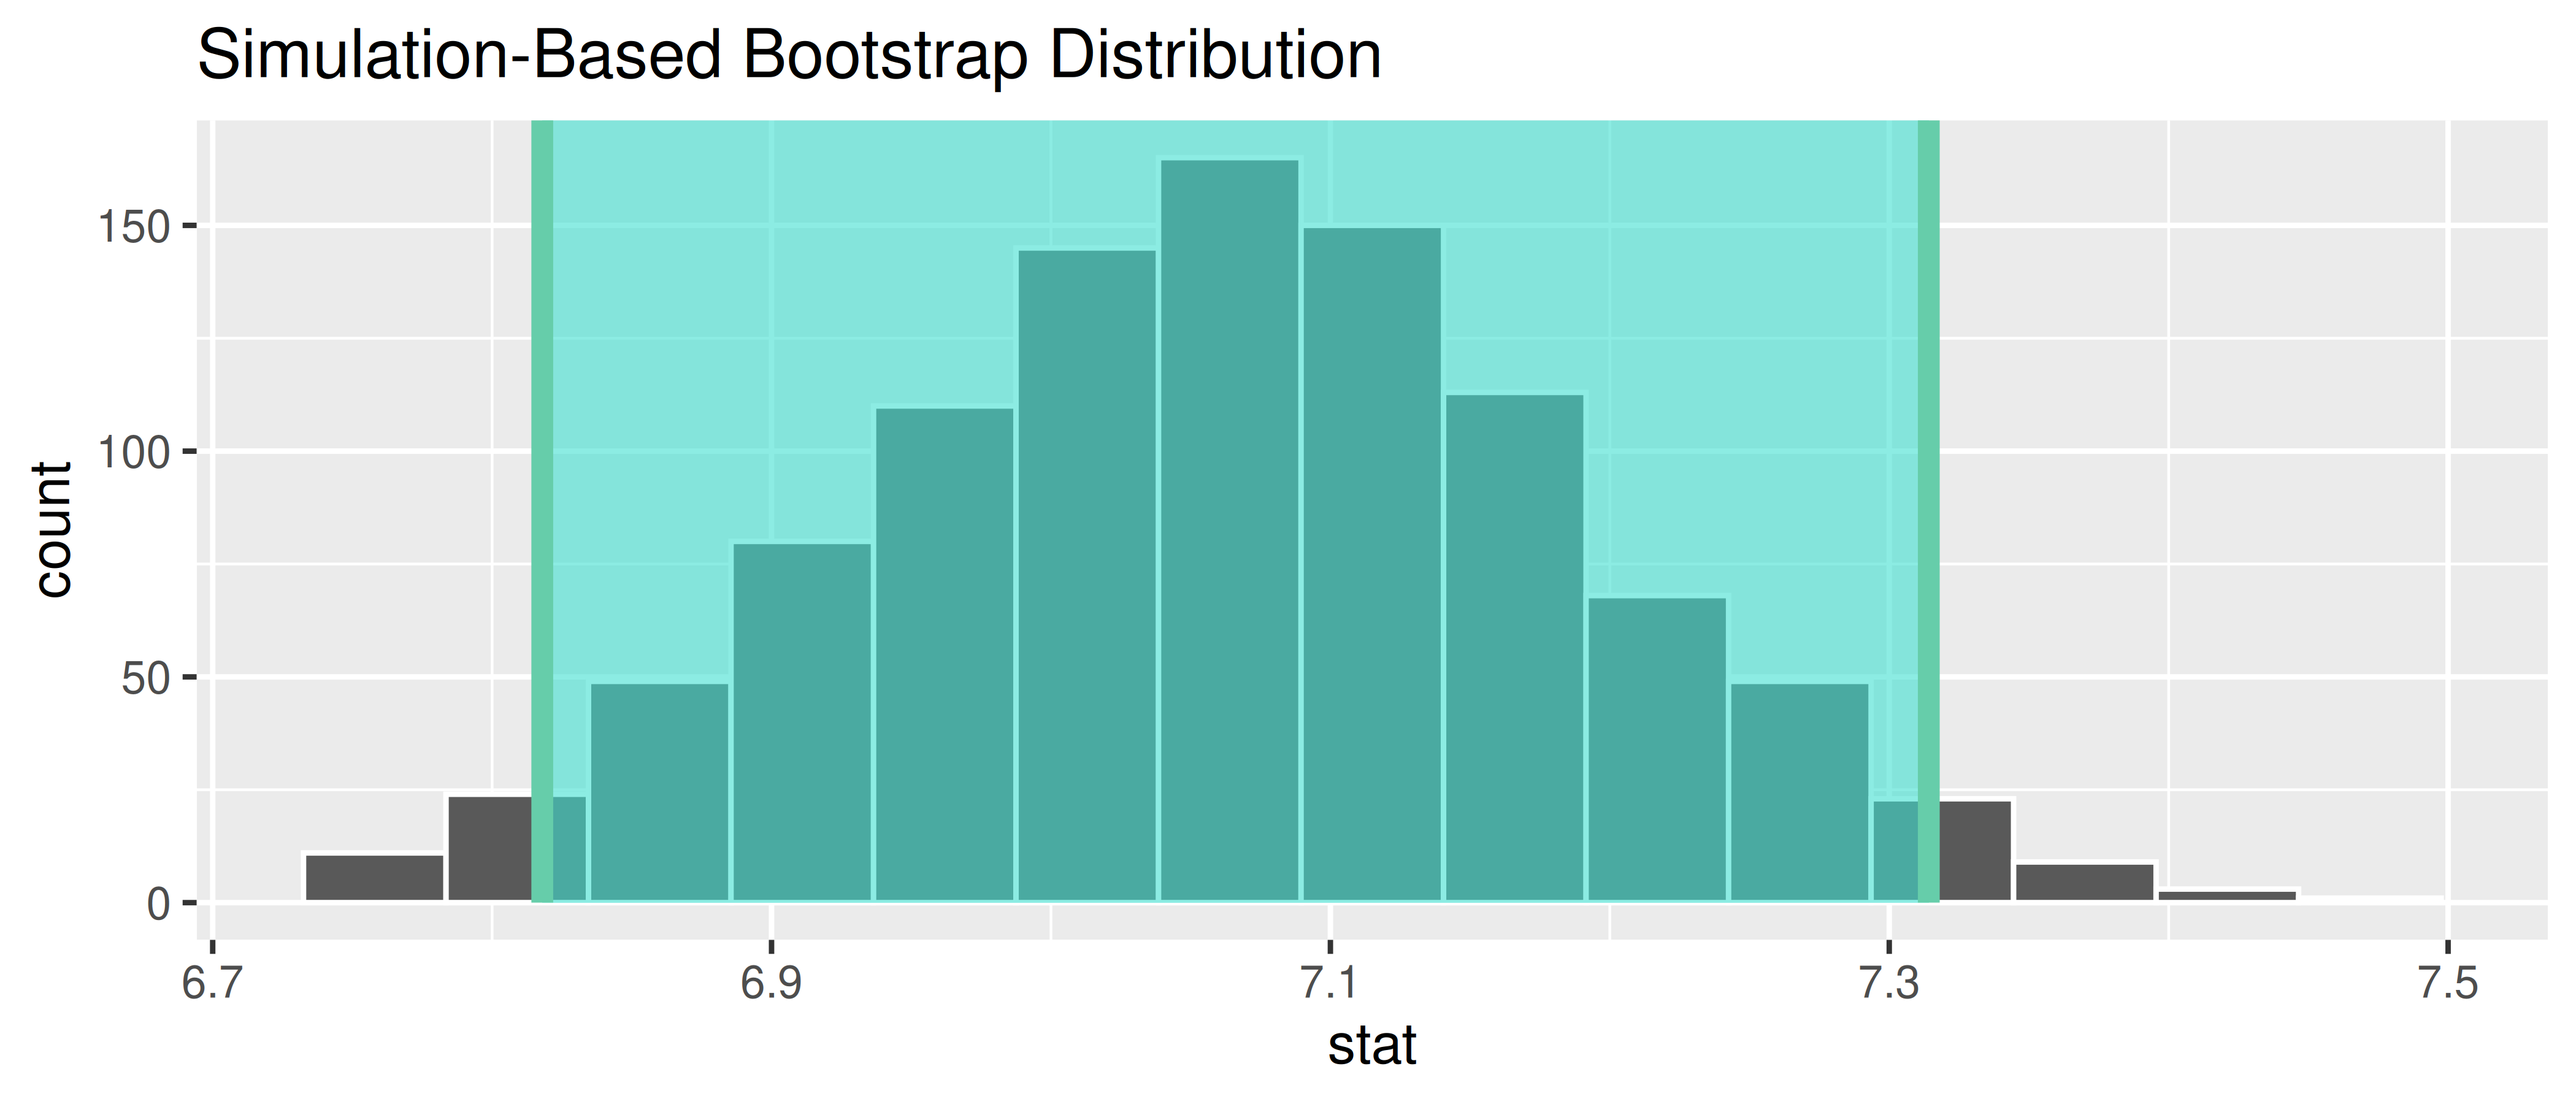
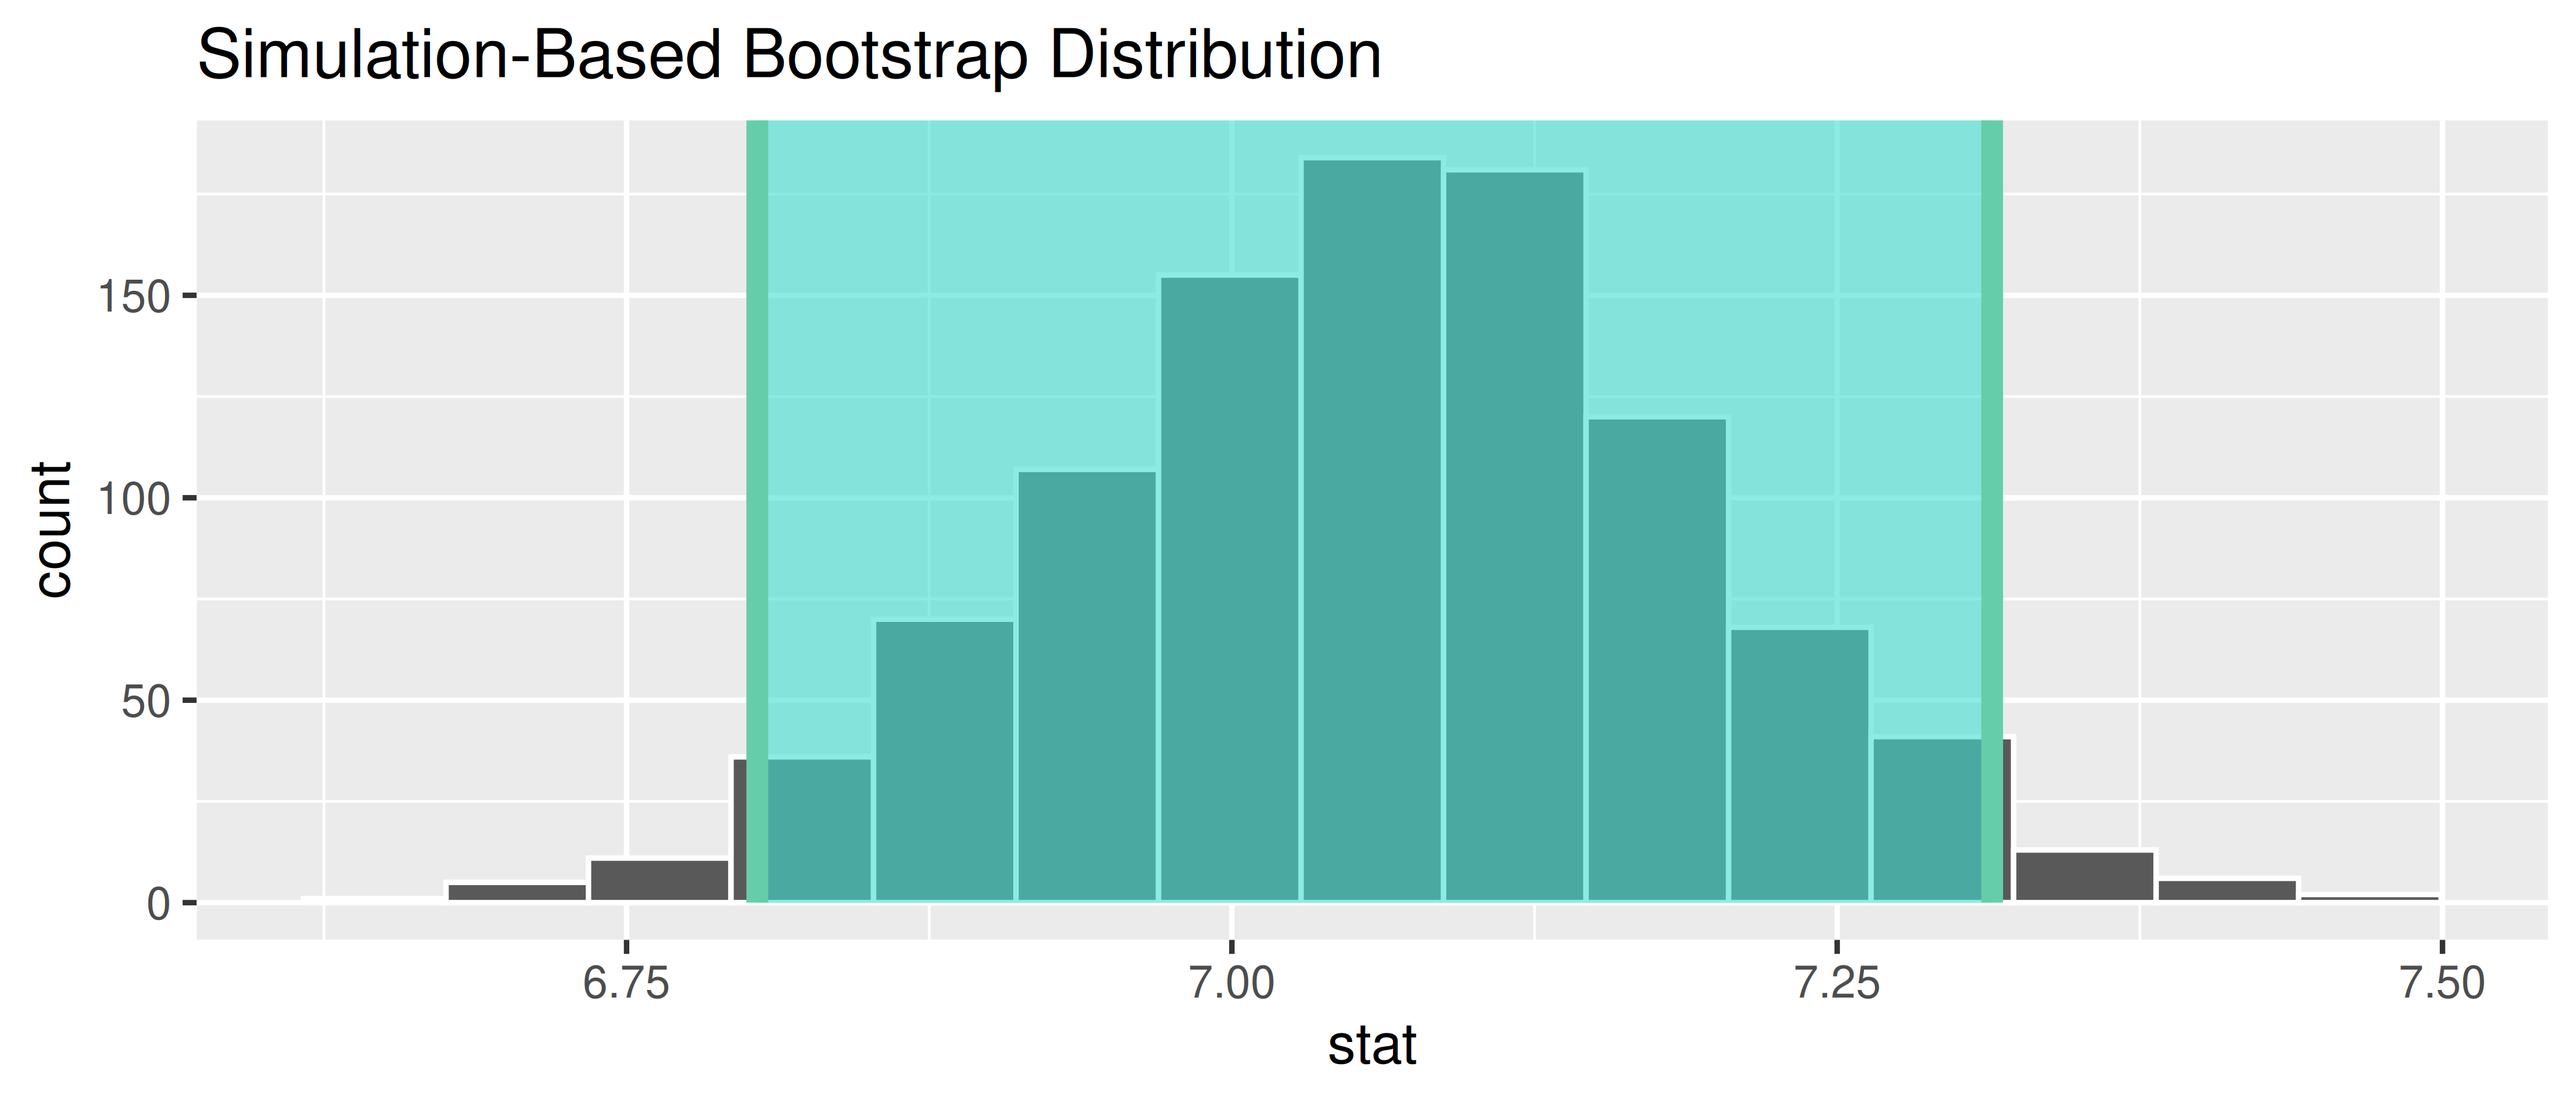
Tables appendix: fix math delimiters (kable captions/cells need \(\) not \$\$). Enable freeze: auto + PDF-by-default in deploy script for fast subsequent PDF rebuilds

diff --git a/STAT145/textbook/appendices/tables.html b/STAT145/textbook/appendices/tables.html
@@ -607,7 +607,7 @@ Table&nbsp;D.1: Common critical values.
 <div aria-describedby="tbl-crit-cheat-caption-0ceaefa1-69ba-4598-a22c-09a6ac19f8ca">
 <div class="cell-output-display">
 <table class="table table-striped table-condensed do-not-create-environment cell caption-top table-sm small" data-quarto-postprocess="true">
-<caption>Two-sided critical values $t^{*}$ (rows) for the labeled confidence level or $\alpha$; last row is $z^{*}$ (large-sample limit).</caption>
+<caption>Two-sided critical values \(t^{*}\) (rows) for the labeled confidence level or \(\alpha\); last row is \(z^{*}\) (large-sample limit).</caption>
 <thead>
 <tr class="header">
 <th style="text-align: center;" data-quarto-table-cell-role="th">df</th>
@@ -668,7 +668,7 @@ Table&nbsp;D.1: Common critical values.
 <td style="text-align: center;">2.581</td>
 </tr>
 <tr class="even">
-<td style="text-align: center;">$\infty$ ($z^{*}$)</td>
+<td style="text-align: center;">\(\infty\) (\(z^{*}\))</td>
 <td style="text-align: center;">1.645</td>
 <td style="text-align: center;">1.960</td>
 <td style="text-align: center;">2.326</td>
@@ -1631,7 +1631,7 @@ Table&nbsp;D.3: Upper-tail critical values of the <span class="math inline">\(t\
 <div aria-describedby="tbl-t-table-caption-0ceaefa1-69ba-4598-a22c-09a6ac19f8ca">
 <div class="cell-output-display">
 <table class="table table-striped table-condensed do-not-create-environment cell caption-top table-sm small" data-quarto-postprocess="true">
-<caption>Row: degrees of freedom. Columns: one-tail area $\alpha$ to the right of $t^{*}$.</caption>
+<caption>Row: degrees of freedom. Columns: one-tail area \(\alpha\) to the right of \(t^{*}\).</caption>
 <colgroup>
 <col style="width: 14%">
 <col style="width: 14%">
@@ -2036,7 +2036,7 @@ Table&nbsp;D.4: Upper-tail critical values of the <span class="math inline">\(\c
 <div aria-describedby="tbl-chisq-table-caption-0ceaefa1-69ba-4598-a22c-09a6ac19f8ca">
 <div class="cell-output-display">
 <table class="table table-striped table-condensed do-not-create-environment cell caption-top table-sm small" data-quarto-postprocess="true">
-<caption>Row: degrees of freedom. Columns: right-tail area $\alpha$ (i.e., $P(X^{2} &gt; \chi^{2\,*}) = \alpha$).</caption>
+<caption>Row: degrees of freedom. Columns: right-tail area \(\alpha\) (i.e., \(P(X^{2} &gt; \chi^{2\,*}) = \alpha\)).</caption>
 <thead>
 <tr class="header">
 <th style="text-align: center;" data-quarto-table-cell-role="th">df</th>
@@ -2532,7 +2532,7 @@ Table&nbsp;D.5: <span class="math inline">\(F^{*}\)</span> with <span class="mat
 <div aria-describedby="tbl-f-05-caption-0ceaefa1-69ba-4598-a22c-09a6ac19f8ca">
 <div class="cell-output-display">
 <table class="table table-striped table-condensed do-not-create-environment cell caption-top table-sm small" data-quarto-postprocess="true">
-<caption>Rows: denominator df ($df_2$). Columns: numerator df ($df_1$).</caption>
+<caption>Rows: denominator df (\(df_2\)). Columns: numerator df (\(df_1\)).</caption>
 <thead>
 <tr class="header">
 <th style="text-align: center;" data-quarto-table-cell-role="th">df2</th>
@@ -3070,7 +3070,7 @@ Table&nbsp;D.6: <span class="math inline">\(F^{*}\)</span> with <span class="mat
 <div aria-describedby="tbl-f-01-caption-0ceaefa1-69ba-4598-a22c-09a6ac19f8ca">
 <div class="cell-output-display">
 <table class="table table-striped table-condensed do-not-create-environment cell caption-top table-sm small" data-quarto-postprocess="true">
-<caption>Rows: denominator df ($df_2$). Columns: numerator df ($df_1$).</caption>
+<caption>Rows: denominator df (\(df_2\)). Columns: numerator df (\(df_1\)).</caption>
 <thead>
 <tr class="header">
 <th style="text-align: center;" data-quarto-table-cell-role="th">df2</th>

diff --git a/STAT145/textbook/tech/tech-tutorial-simulate.html b/STAT145/textbook/tech/tech-tutorial-simulate.html
@@ -712,7 +712,7 @@ Jamovi: built-in menus don’t shuffle
 <pre><code># A tibble: 1 × 2
   lower_ci upper_ci
      &lt;dbl&gt;    &lt;dbl&gt;
-1     6.82     7.31</code></pre>
+1     6.80     7.31</code></pre>
 </div>
 <div class="sourceCode cell-code" id="cb6"><pre class="sourceCode r code-with-copy"><code class="sourceCode r"><span id="cb6-1"><a href="#cb6-1" aria-hidden="true" tabindex="-1"></a>boot_dist <span class="sc">|&gt;</span></span>
 <span id="cb6-2"><a href="#cb6-2" aria-hidden="true" tabindex="-1"></a>  <span class="fu">visualize</span>() <span class="sc">+</span></span>
